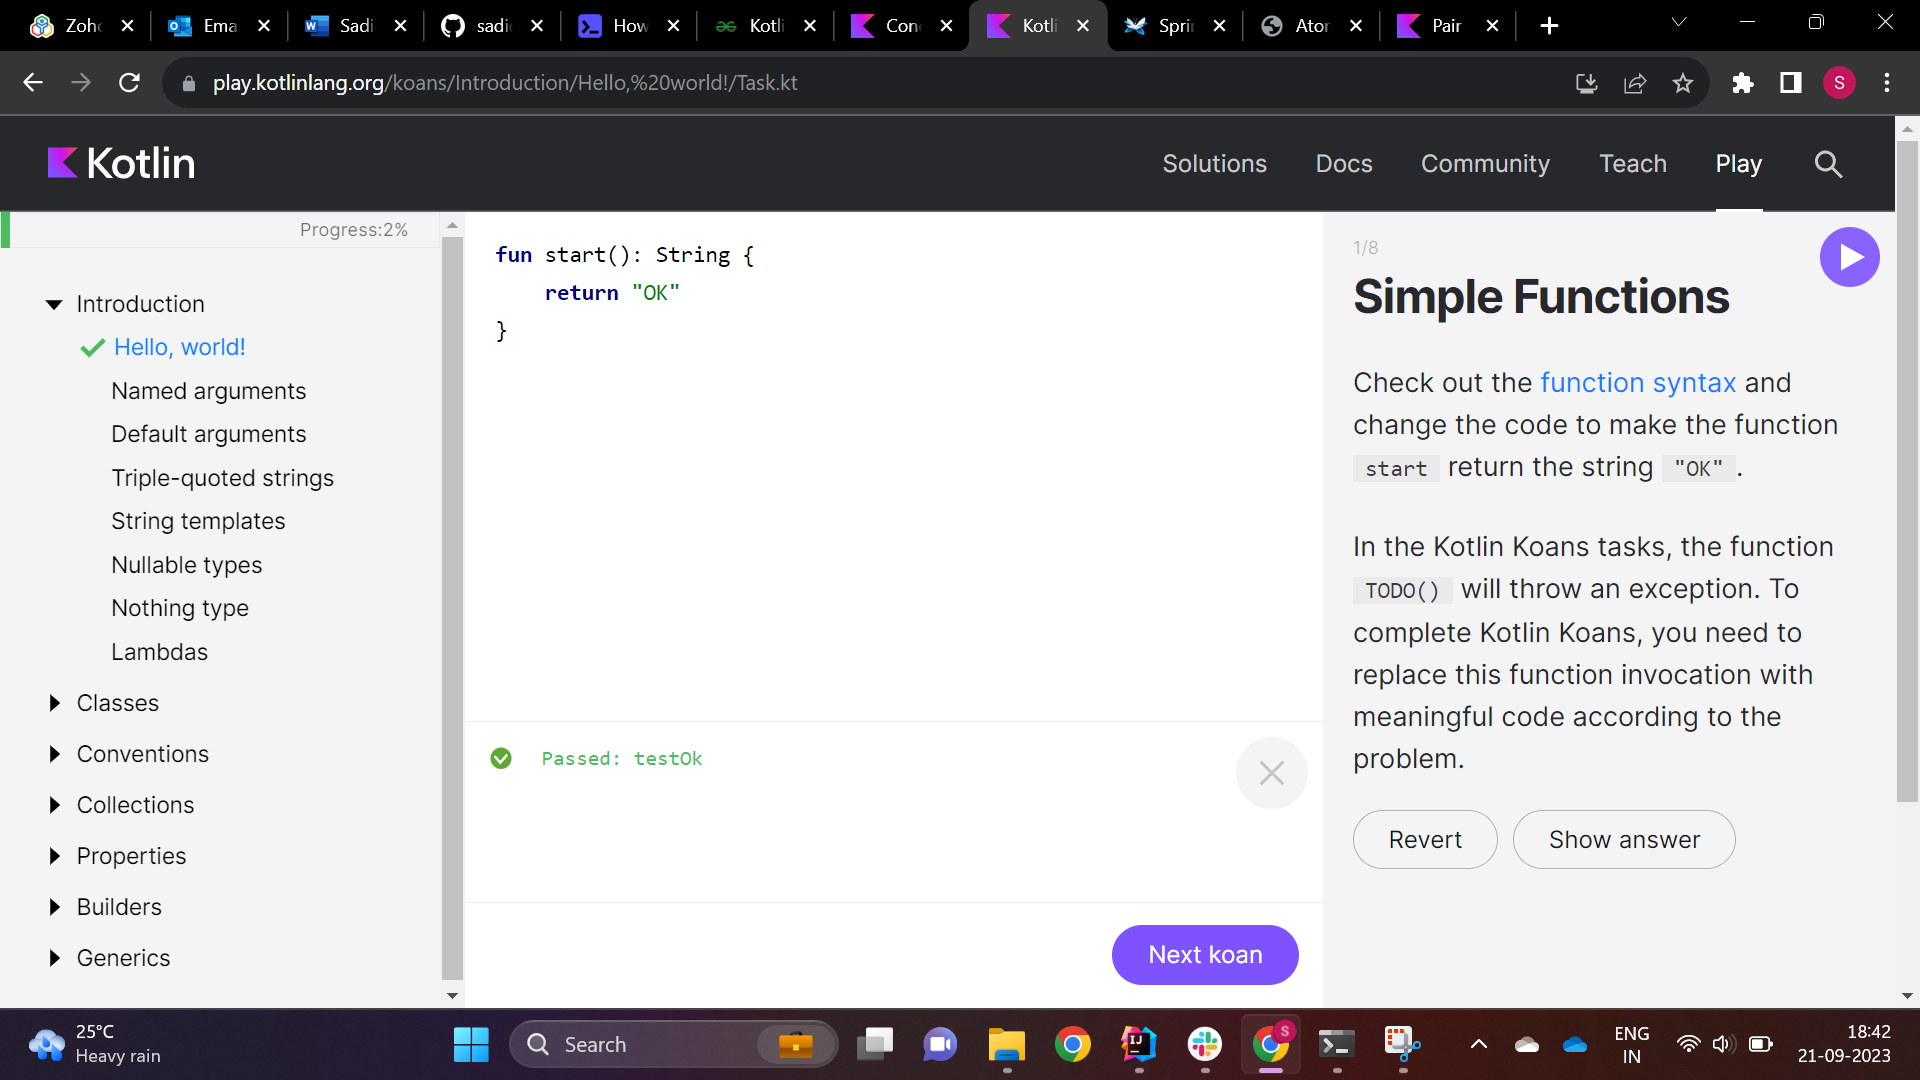
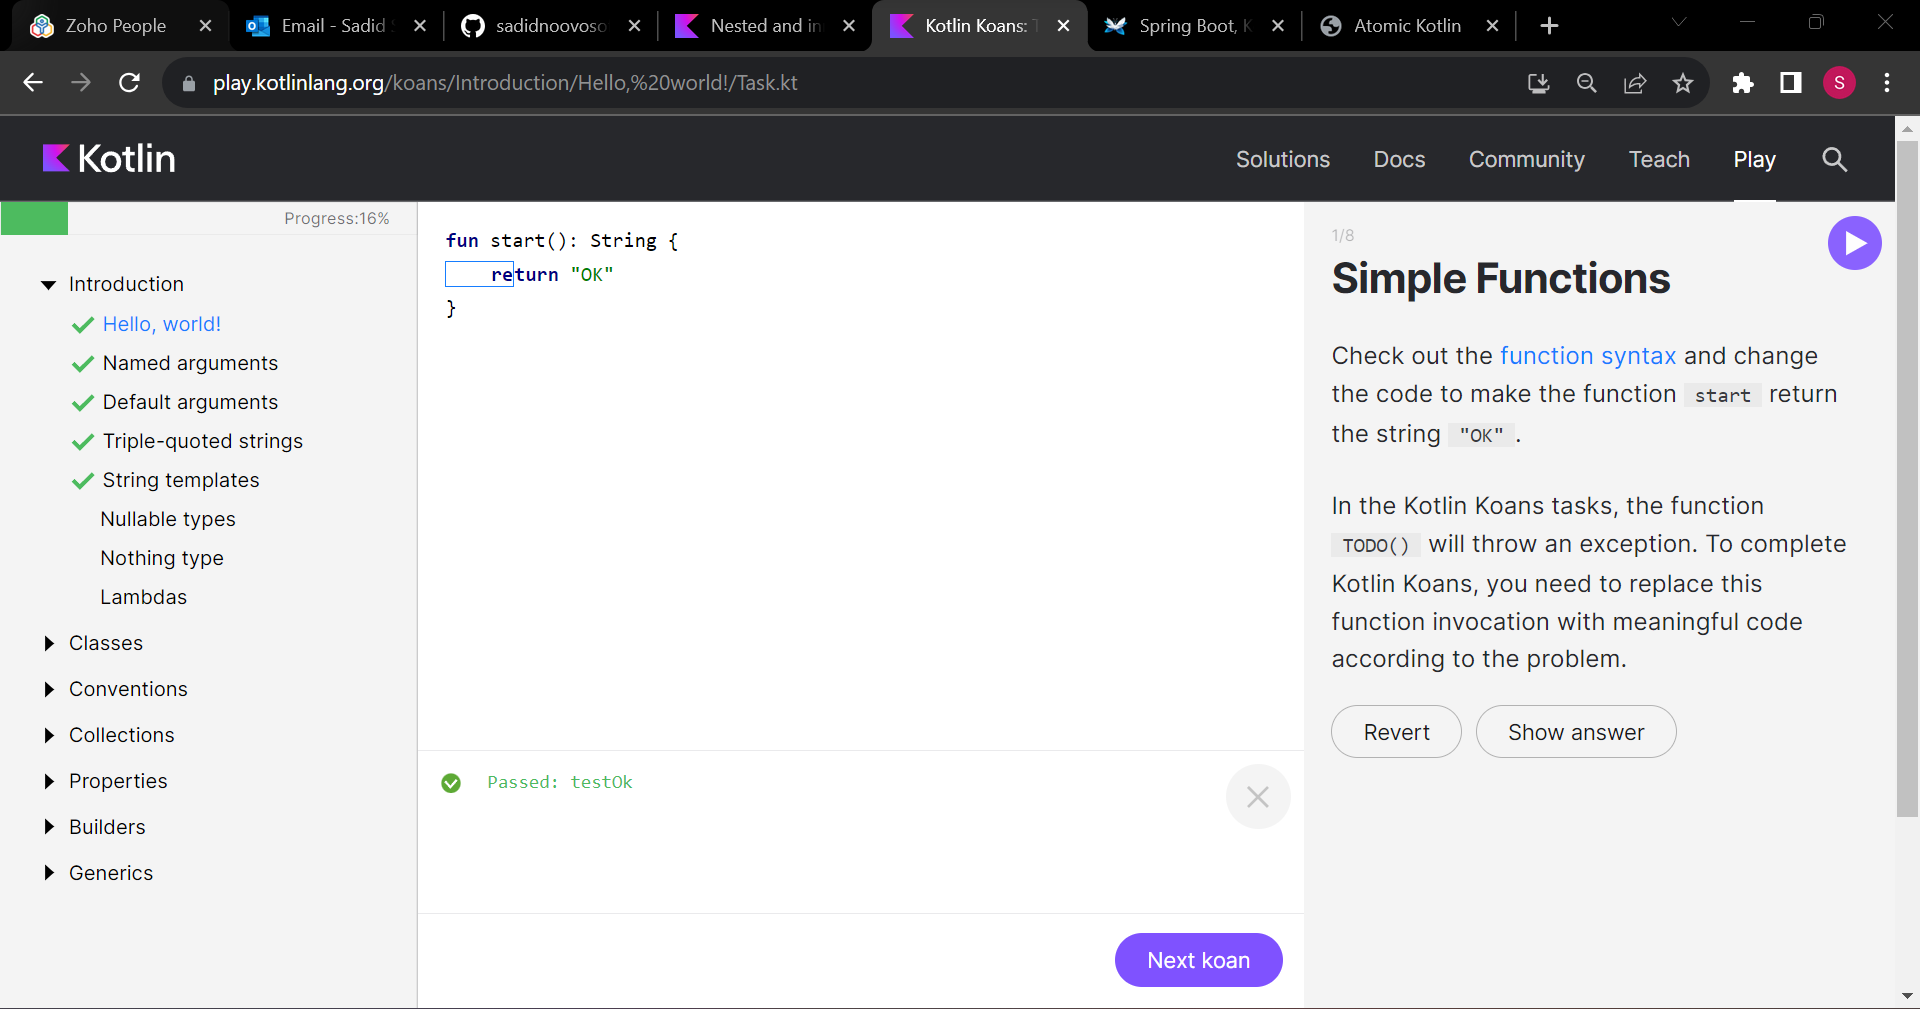
Extensions, data classes, inheritance, interfaces

diff --git a/src/main/kotlin/inheritance.kt b/src/main/kotlin/inheritance.kt
@@ -1,0 +1,94 @@
+open class Base(p: Int)
+
+class Derived1(p: Int) : Base(p)
+
+// OR
+
+class Derived2 : Base {
+    constructor(p: Int) : super(p) {
+
+    }
+
+    constructor(p: Int, d: Int) : super(p) {
+
+    }
+}
+
+open class Shape {
+    open fun draw() {}
+    open fun area() {}
+    fun fill() {}
+}
+
+open class Circle : Shape() {
+    open val radius: Int = 10
+
+    override fun draw() {}
+    final override fun area() {}
+}
+
+class Oval : Circle() {
+    override var radius: Int = 15
+
+    override fun draw() {}
+    // override fun area() {} // error because are in Circle is final
+}
+
+open class Parent(
+    val name: String
+) {
+    init {
+        println("Initializing a base class")
+    }
+
+    open val size: Int = name.length.also { println("Initializing size in the base class: $it") }
+    override fun toString(): String {
+        return "Parent(name='$name', size=$size)"
+    }
+}
+
+class Child(
+    name: String,
+    val lastName: String,
+) : Parent(name.replaceFirstChar { it.uppercase() }.also { println("Argument for the base class: $it") }) {
+    init {
+        println("Initializing a child class")
+    }
+
+    override val size: Int = (super.size + lastName.length).also { println("Initializing size in derived class: $it") }
+
+    override fun toString(): String {
+        return "Child(lastName='$lastName', size=$size)"
+    }
+}
+
+open class Rectangle {
+    open fun draw() {
+        println("Drawing rectangle")
+    }
+}
+
+interface Polygon {
+    open fun draw() {
+        println("Drawing polygon")
+    }
+}
+
+class Square : Rectangle(), Polygon {
+    override fun draw() {
+        super<Rectangle>.draw()
+        super<Polygon>.draw()
+    }
+}
+
+fun main() {
+    // (Any) is the default superclass for all kotlin objects
+
+    println()
+    println(Parent("Parent class"))
+    println()
+    println(Child("Parent class", "Child class"))
+
+    println()
+    Square().draw()
+}

diff --git a/src/main/kotlin/extensions.kt b/src/main/kotlin/extensions.kt
@@ -1,0 +1,60 @@
+// Extension function
+fun <T> MutableList<T>.swap(index1: Int, index2: Int) {
+    val temp = this[index1]
+    this[index1] = this[index2]
+    this[index2] = temp
+}
+
+open class Parent1
+class Child1 : Parent1()
+
+fun Parent1.getName() = "Parent1"
+fun Child1.getName() = "Child1"
+
+fun Any?.toString(): String {
+    if (this == null) return "null"
+    return toString()
+}
+
+fun compute(input: Int): Pair<Int, String> =
+    if (input > 5) Pair(input * 2, "High")
+    else Pair(input * 2, "Low")
+
+data class Tuple(
+    val i: Int,
+    val d: Double,
+    val s: String,
+    val b: Boolean,
+    val l: List<Int>,
+)
+
+fun main() {
+    val list = mutableListOf(1, 2, 3)
+    println(list)
+    list.swap(0, 2)
+    println(list)
+
+    fun printClassName(obj: Parent1) {
+        println(obj.getName())
+    }
+
+    printClassName(Parent1())
+    printClassName(Child1())
+
+    val res1 = compute(3)
+    println(res1)
+    println(res1.first)
+    println(res1.second)
+
+    // Destructuring
+    val (first, second) = compute(6)
+    println("$first $second")
+
+    val (value, desc) = compute(2)
+    println("$value $desc")
+
+    val tuple = Tuple(1, 1.0, "1", false, listOf(1, 2, 3))
+    val (intVal, doubleVal, stringVal, booleanVal, listVal) = tuple
+
+    println("$intVal $doubleVal $stringVal \n$booleanVal $list")
+}

diff --git a/src/main/kotlin/named_default.kt b/src/main/kotlin/named_default.kt
@@ -1,0 +1,46 @@
+// Default arguments for function
+fun color(
+    red: Int = 0,
+    blue: Int = 0,
+    green: Int = 0,
+) = "($red, $blue, $green)"
+
+// Default arguments for constructor
+class Color(
+    val red: Int = 0,
+    val blue: Int = 0,
+    val green: Int = 0,
+) {
+    override fun toString(): String {
+        return "Color(red=$red, blue=$blue, green=$green)"
+    }
+}
+
+class DefaultArg
+
+fun testDef(
+    d: DefaultArg = DefaultArg()
+) = println(d)
+
+fun main() {
+    // named arguments for function
+    println(color(blue = 140, green = 255))
+
+    // uses of named and default arguments in library functions
+    val list: List<String> = listOf("a", "b", "c")
+    println(list.toString())
+    println(list.joinToString())
+    println(list.joinToString(prefix = "{", postfix = "}", separator = ", "))
+
+    // named arguments for constructor
+    val c = Color(
+        green = 144,
+        red = 240,
+    )
+    println(c)
+
+//    If you use an object as a default argument, a new instance of that object is
+//    created for each invocation:
+    testDef()
+    testDef()
+}

diff --git a/src/main/kotlin/data_class.kt b/src/main/kotlin/data_class.kt
@@ -1,0 +1,57 @@
+// normal class
+class Hold1(
+    val arg1: String,
+    var arg2: Int,
+)
+
+// data class
+data class Hold2(
+    val arg1: String,
+    var arg2: Int,
+)
+
+data class Contact(
+    val firstname: String,
+    val lastname: String,
+    val number: String,
+    val address: String,
+)
+
+fun main() {
+    val h1 = Hold1("Sadid", 21)
+    val h2 = Hold2("Sadid", 21)
+
+    println(h1)
+    println(h2)
+
+    val h3 = Hold1("Sadid", 21)
+    val h4 = Hold2("Sadid", 21)
+
+    println(h3)
+    println(h4)
+
+    h3.arg2 = 35
+    println(h2 == h4)
+    h4.arg2 = 35
+
+    println(h1 == h3)
+    println(h4 == h2)
+
+    // copy()
+    val contact = Contact(
+        firstname = "Tejas",
+        lastname = "Ekhande",
+        number = "+91-9975119287",
+        address = "05, Alacrity, Baner",
+    )
+
+    val newContact = contact.copy(
+        number = "+91-7620236431",
+    )
+
+    println(contact)
+    println(newContact)
+
+    println(contact.hashCode())
+    println(newContact.hashCode())
+}

diff --git a/src/main/kotlin/property_accessors.kt b/src/main/kotlin/property_accessors.kt
@@ -1,0 +1,39 @@
+class Default {
+    var i: Int = 0
+        get() = field
+        set(value) {
+            println("Setting i")
+            field = value
+        }
+
+    var name: String = ""
+        get() = field
+        private set(value) {
+            println("Setting name")
+            field = value
+        }
+
+    // making setter private
+    var count: Int = 0
+        private set
+
+    fun increment() {
+        count = count.inc()
+    }
+
+    // making property private will make both getter and setter private
+    private var value: Int = 0
+}
+
+fun main() {
+    val d: Default = Default()
+    d.i = 10
+//    d.name = "Sadid"
+    println(d.name)
+    println(d.i)
+
+    d.increment()
+    d.increment()
+    println(d.count)
+    // d.value
+}

diff --git a/src/main/kotlin/interfaces.kt b/src/main/kotlin/interfaces.kt
@@ -1,0 +1,33 @@
+interface MyInterface {
+    fun foo()
+    fun bar() {
+        println("Bar implementation")
+    }
+}
+
+abstract class ImpMyInterface1 : MyInterface {
+
+}
+
+interface Named {
+    val name: String
+}
+
+interface NamedPerson : Named {
+    val firstName: String
+    val lastName: String
+
+    override val name: String
+        get() = "$firstName $lastName"
+}
+
+class ImpNamedPerson(
+    override val firstName: String,
+    override val lastName: String,
+) : NamedPerson
+
+class ImpMyInterface2 : MyInterface {
+    override fun foo() {
+        println("Foo implementation")
+    }
+}

diff --git a/kotlin_koans.md b/kotlin_koans.md
@@ -1,7 +1,7 @@
 ### Introduction
 
 1.
-![img.png](img.png)
+![img_7.png](img.png)
 
 2.
 ![img_1.png](img_1.png)
@@ -21,5 +21,27 @@
 1.
 ![img_5.png](img_5.png)
 
+2.
+![img_7.png](img_7.png)
+
 4.
 ![img_6.png](img_6.png)
+
+5.
+![img_8.png](img_8.png)
+
+### Conventions
+
+2.
+![img_9.png](img_9.png)
+
+3.
+![img_10.png](img_10.png)
+
+5.
+![img_11.png](img_11.png)
+
+### Properties
+
+1.
+![img_12.png](img_12.png)
